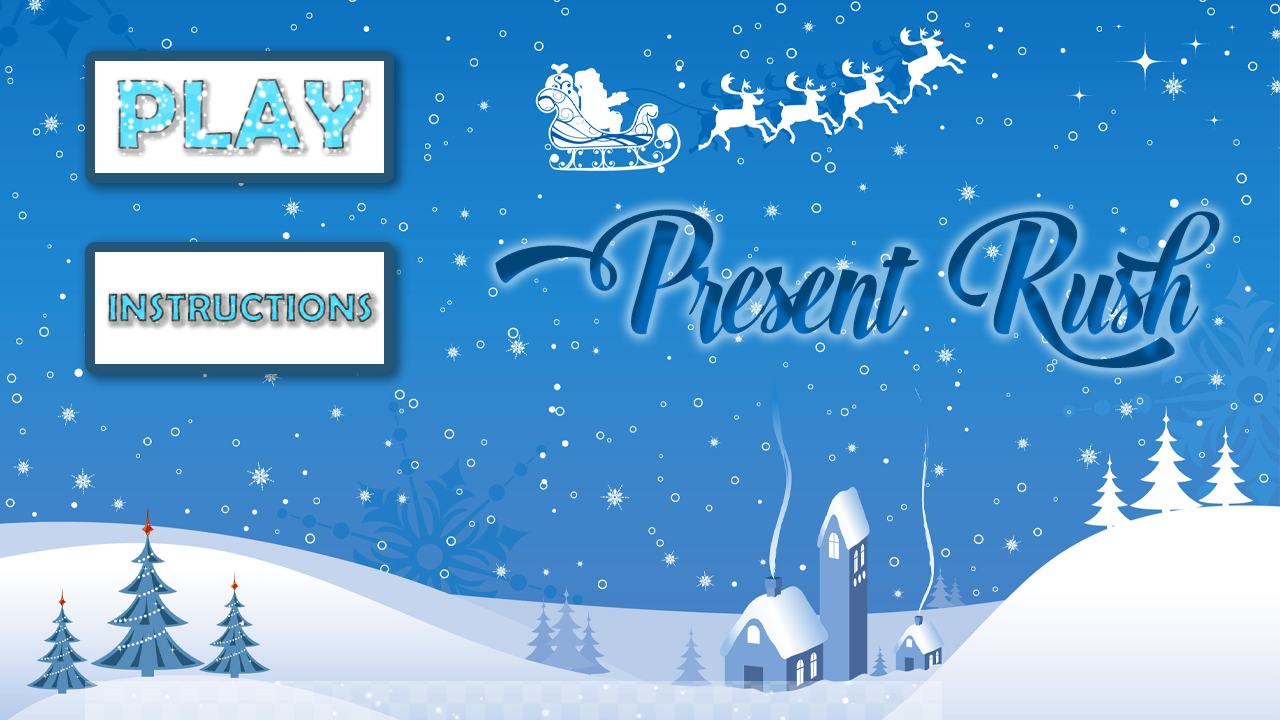
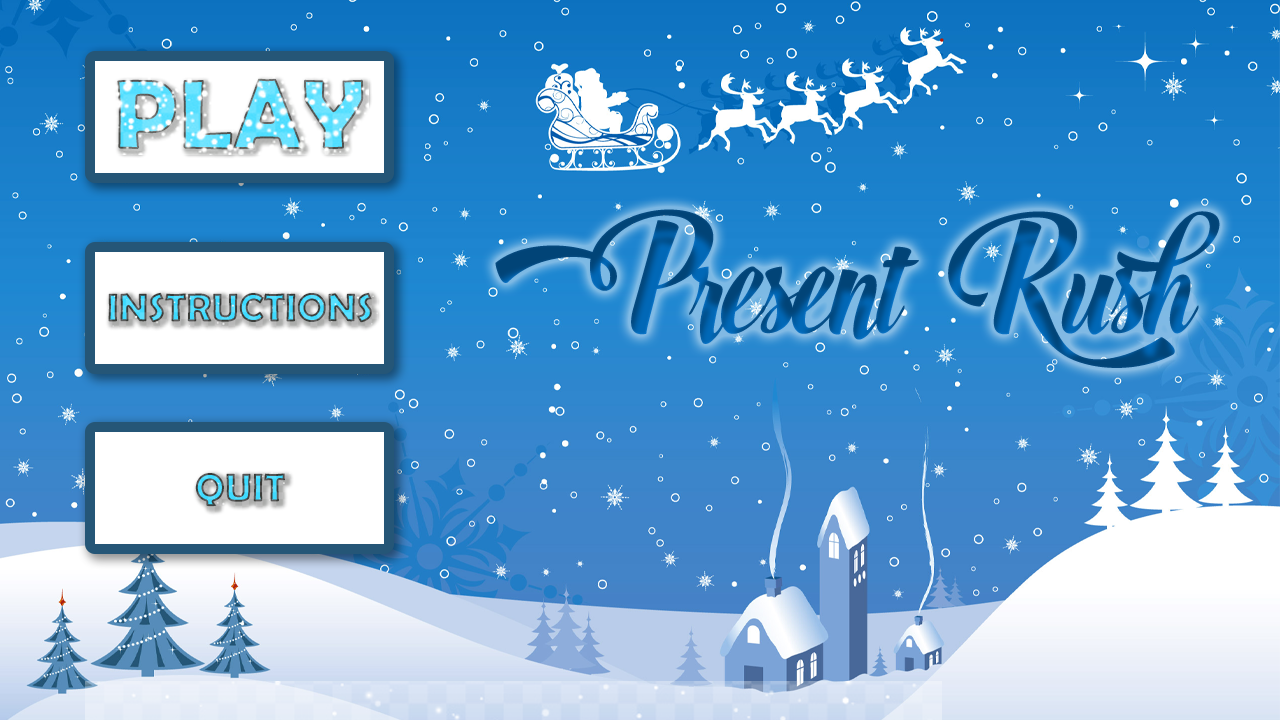
Arranged UI buttons properly and added Quit
UI buttons had problems with scaling with the screen size - this has been fixed

Quit button has been added so that user can exit the application

Changed region(s): [[0.0625, 0.5806, 0.3125, 0.7944]]

diff --git a/Assets/Scripts/SceneSwitcher.cs b/Assets/Scripts/SceneSwitcher.cs
@@ -14,11 +14,18 @@ public class SceneSwitcher : MonoBehaviour
     public void PlayButtonClicked()
     {
         SceneManager.LoadScene("Level");
+
     }
 
     public void BackButtonClicked()
     {
         SceneManager.LoadScene("Menu");
+    }
+
+    public void QuitButtonClicked()
+    {
+        Application.Quit();
+        Debug.Log("Quit Button has been pressed");
     }
     // Start is called before the first frame update
     void Start()
